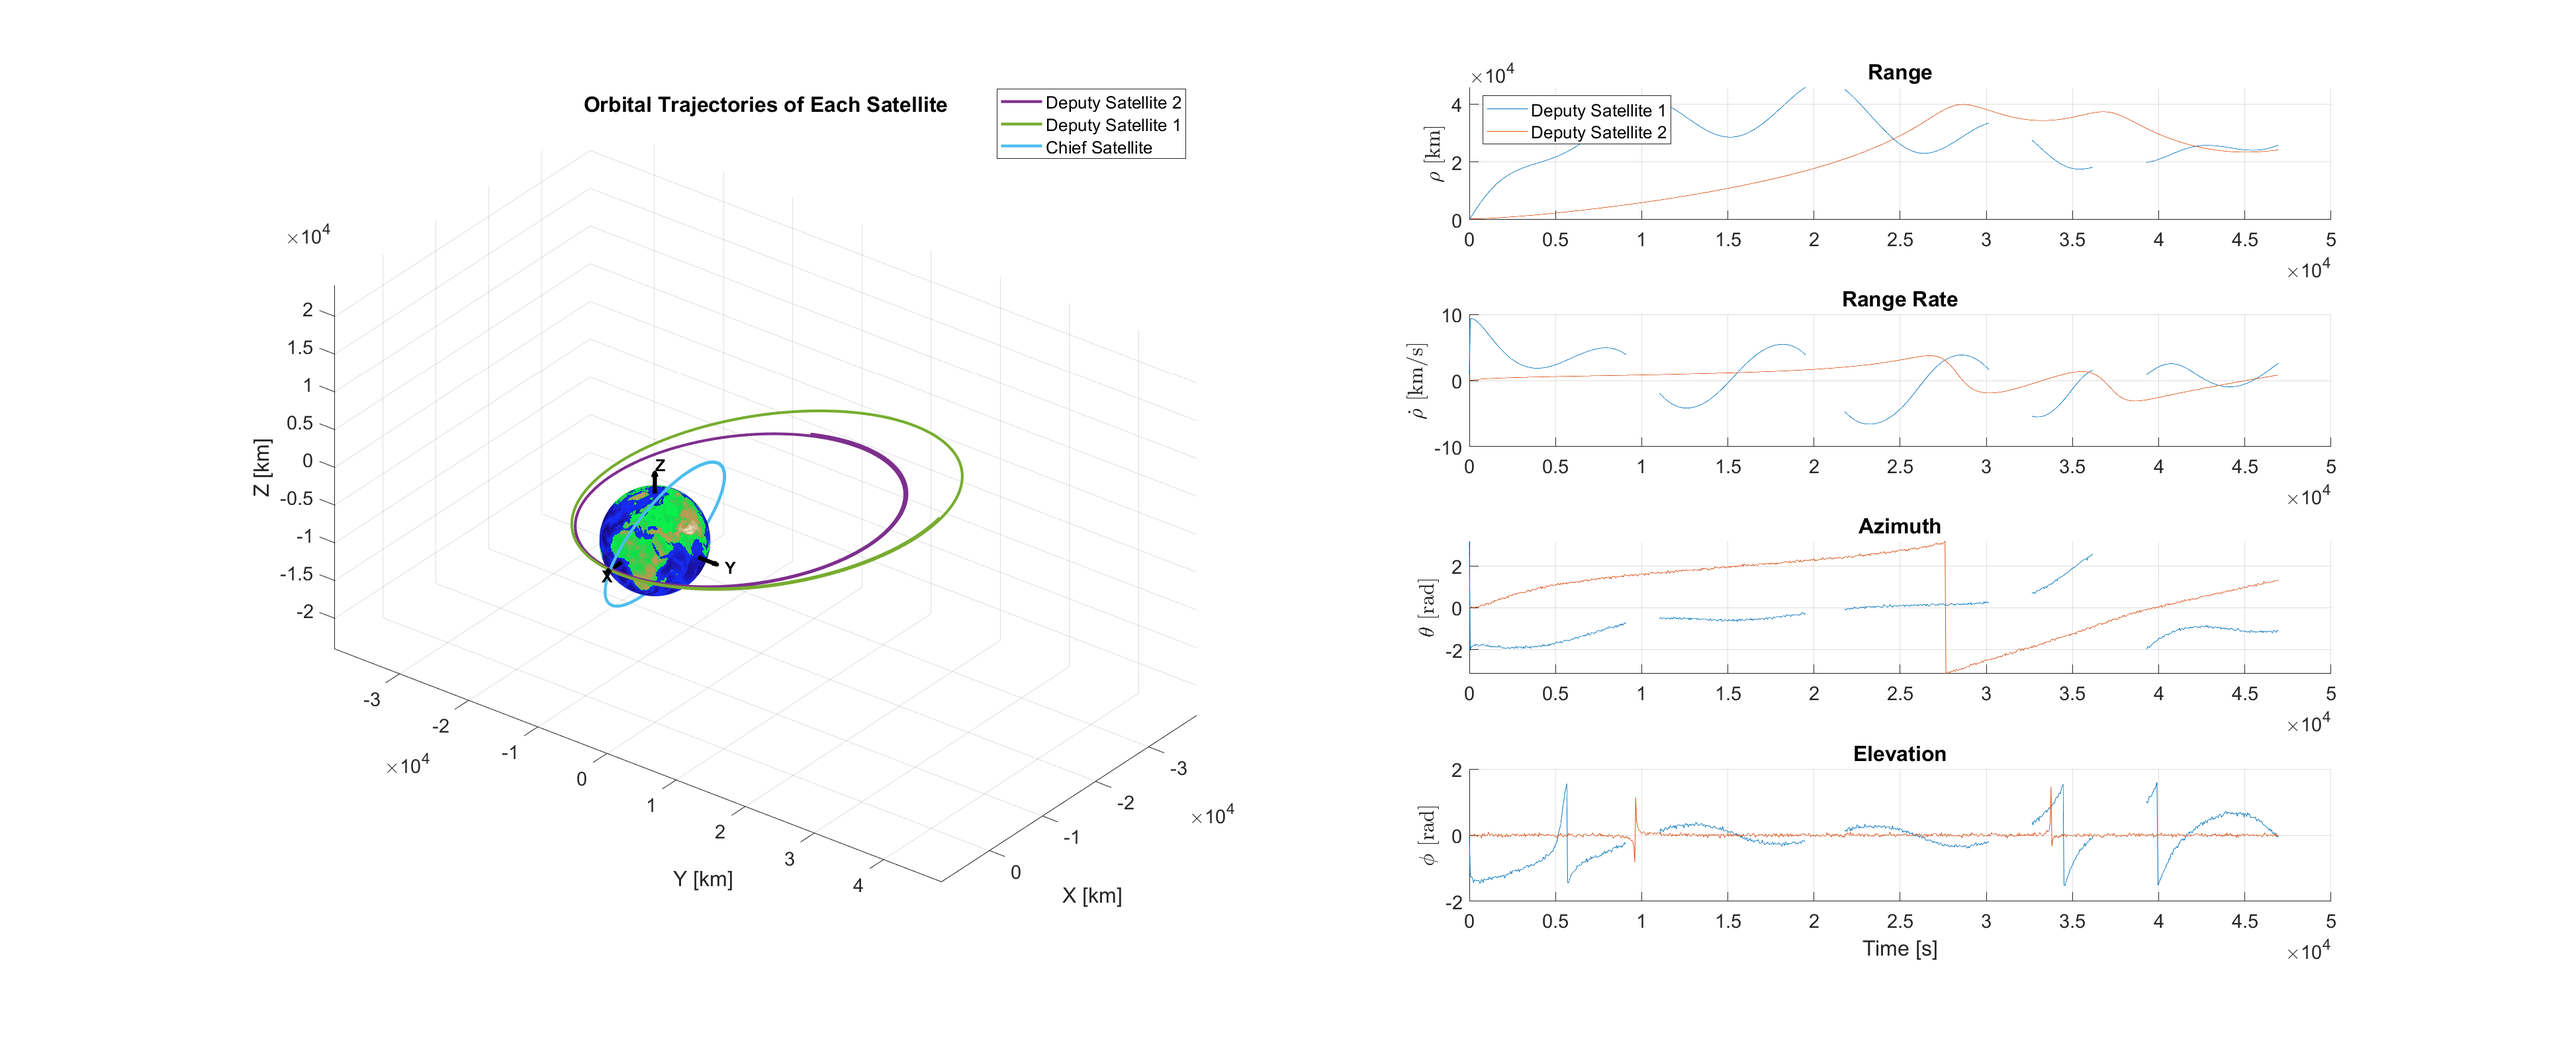
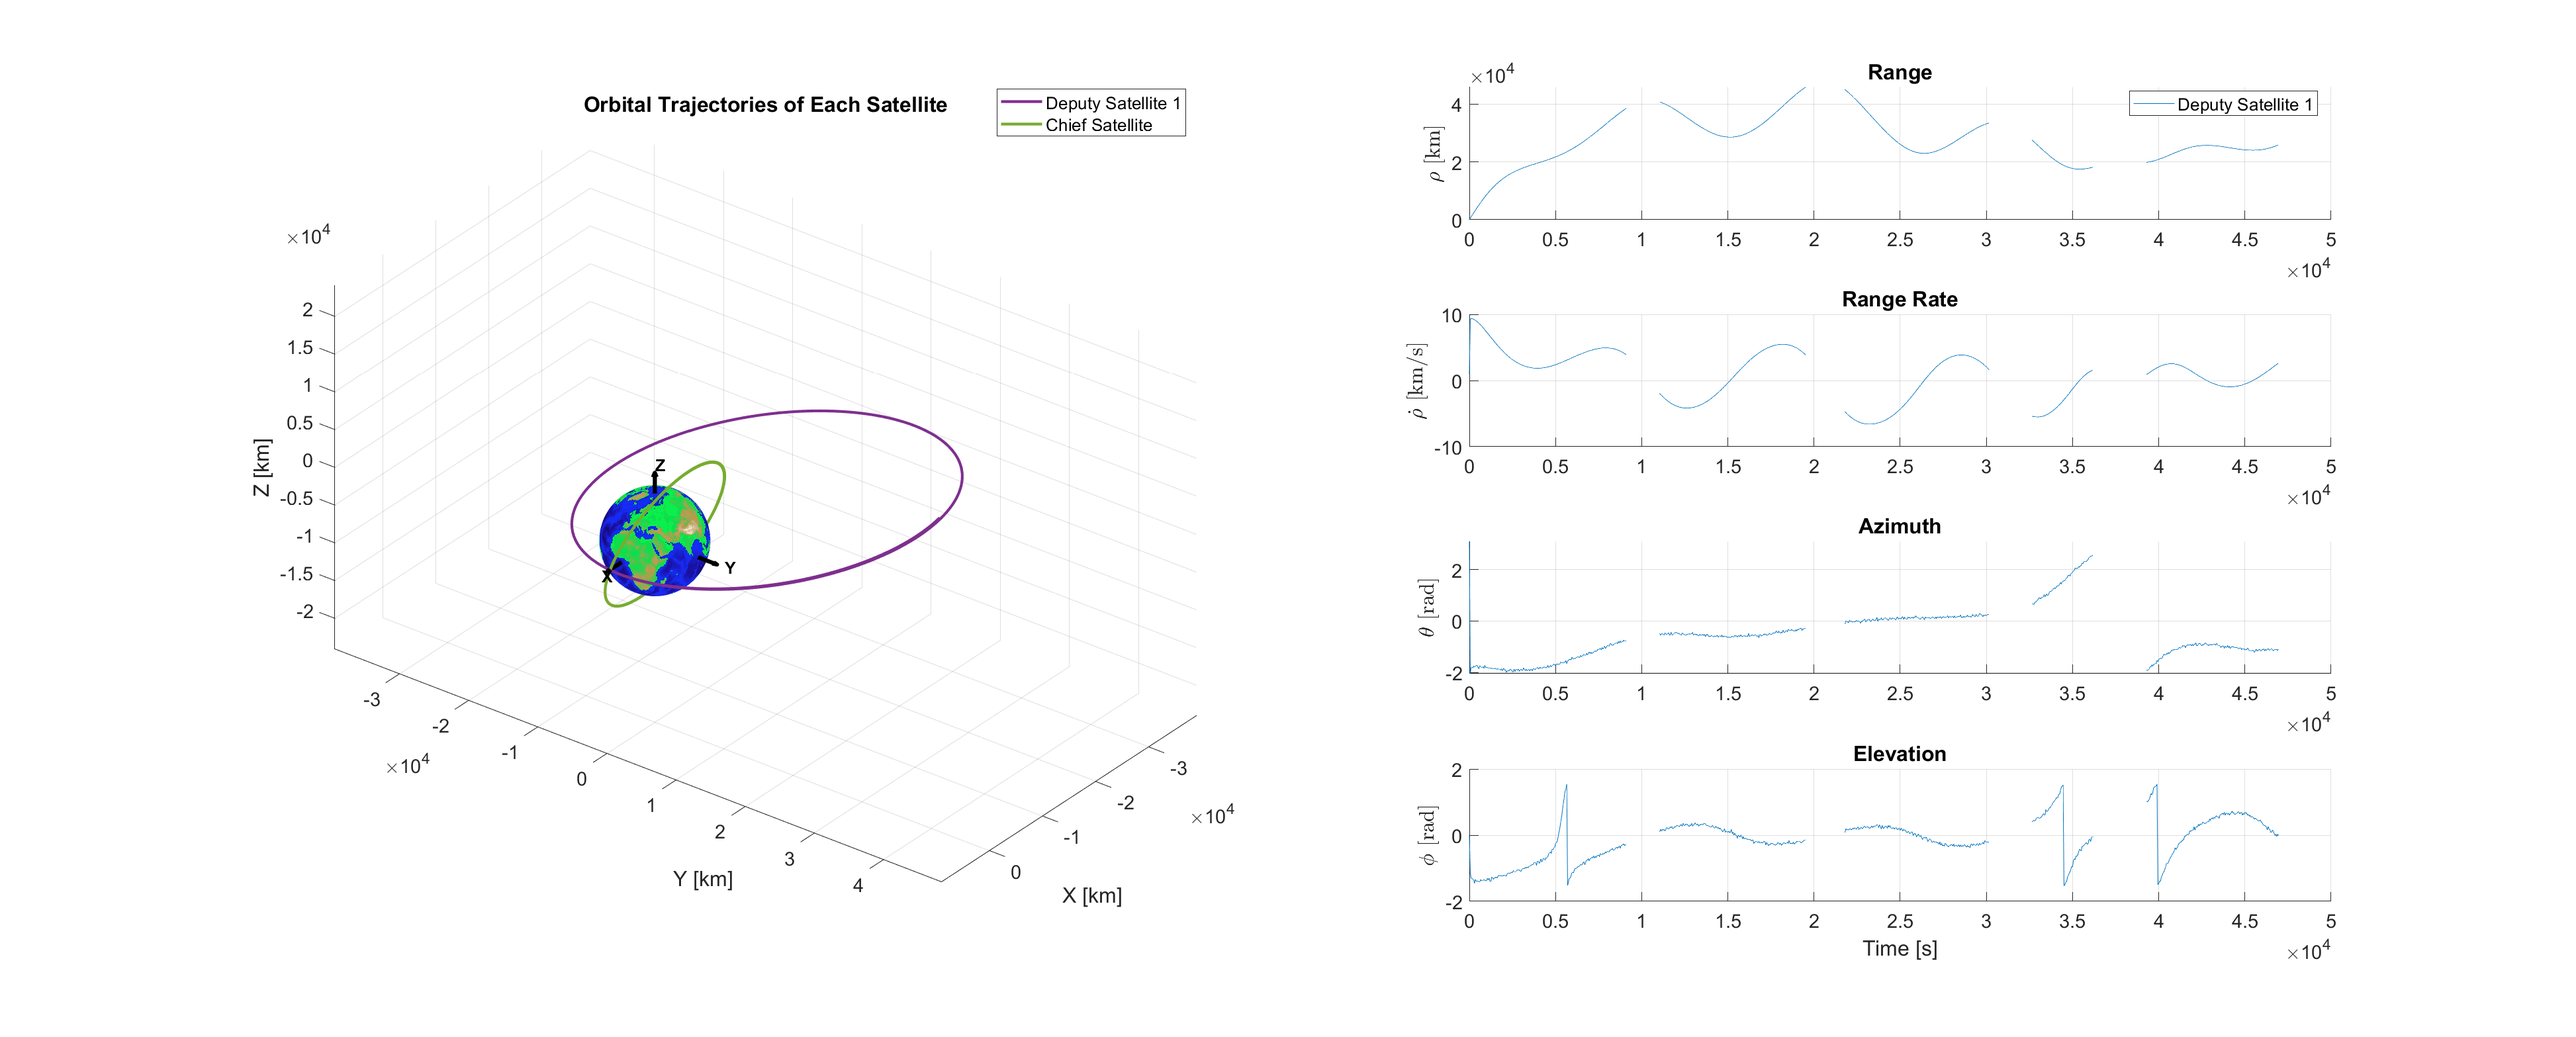
Working RBPF

diff --git a/RBPF_main.m b/RBPF_main.m
@@ -33,7 +33,7 @@ r0 = CONST.R_E + 2000; % [km]
 x0_C = [r0; 0; 0; 2.57; 0; 7.05];
 % x0_C = [r0; 0; 0; 7.5; 0; 0];
 x0_D = [r0+100; 1; 0; 8.75; 0; 0];
-x0_E = [r0 - 200; 1; 0; 8.75; 0; 0];
+% x0_E = [r0 - 200; 1; 0; 8.75; 0; 0];
 
 % Truth Model
 [t_vec, X, Y] = TruthModelSim(params, CONST, NOISE);
@@ -41,7 +41,6 @@ x0_E = [r0 - 200; 1; 0; 8.75; 0; 0];
 u = zeros(3,1);
 x_chief = X(:,:,1);
 x_deputy = X(:,:,2);
-x_eputy = X(:,:,3);
 
 params.p = size(Y, 1); % Number of measurements
 
@@ -66,11 +65,65 @@ params.PF.Q = 1e-6*[    0,      0,      0,      0,      0,      0;
                         0,      0,      0,      1,      0,      0;
                         0,      0,      0,      0,      0,      0;
                         0,      0,      0,      0,      0,      1];
+                    
+rough = 0.1e-6*[    0,      0,      0,      0,      0,      0;
+                  0,      1,      0,      0,      0,      0;
+                  0,      0,      0,      0,      0,      0;
+                  0,      0,      0,      1,      0,      0;
+                  0,      0,      0,      0,      0,      0;
+                  0,      0,      0,      0,      0,      1];
+params.PF.Q = params.PF.Q + rough;
 
 params.UKF.R = 10 * NOISE.R;
 params.PF.R = 10 * NOISE.R;
-params.Ns = 500; % Number of samples
-x_meas = x_chief;
-[RBPF] = RunRBPF(x_meas, Y, params, CONST);
+params.Ns = 100; % Number of samples
+% x_meas = x_chief;
+[RBPF] = RunRBPF(Y, params, CONST);
+x_hat = [RBPF(:).x_mmse];
+P = cat(3,RBPF(:).P);
+xt_hat = [RBPF(:).xt_mmse];
+
+figure
+tiledlayout('flow')
+nexttile
+hold on
+plot(t_vec, x_hat(1,:) - x_deputy(1,:))
+plot(t_vec, 2*sqrt(squeeze(P(1,1,:))),'--k');
+plot(t_vec, -2*sqrt(squeeze(P(1,1,:))),'--k');
+xlabel('time [s]')
+ylabel('X Error')
+
+nexttile
+hold on
+plot(t_vec, x_hat(3,:) - x_deputy(3,:))
+plot(t_vec, 2*sqrt(squeeze(P(3,3,:))),'--k');
+plot(t_vec, -2*sqrt(squeeze(P(3,3,:))),'--k');
+xlabel('time [s]')
+ylabel('Y Error')
+
+nexttile
+hold on
+plot(t_vec, x_hat(5,:) - x_deputy(5,:))
+plot(t_vec, 2*sqrt(squeeze(P(5,5,:))),'--k');
+plot(t_vec, -2*sqrt(squeeze(P(5,5,:))),'--k');
+xlabel('time [s]')
+ylabel('Z Error')
+
+figure
+tiledlayout('flow')
+nexttile
+plot(t_vec, xt_hat(1,:) - x_chief(1,:))
+xlabel('time [s]')
+ylabel('X Error')
+nexttile
+plot(t_vec, xt_hat(3,:) - x_chief(3,:))
+xlabel('time [s]')
+ylabel('Y Error')
+nexttile
+plot(t_vec, xt_hat(5,:) - x_chief(5,:))
+xlabel('time [s]')
+ylabel('Z Error')
+
+
 
 

diff --git a/SIS_RBPF.m b/SIS_RBPF.m
@@ -1,7 +1,8 @@
-function pp1 = SIS_RBPF(particles, y_t, y_e, x_meas, params, CONST)
+function pp1 = SIS_RBPF(particles, y_e, params, CONST)
 %SIS Sequential Importance Sampling for the discrete time system
 
 [~, Ns] = size(particles);
+dt = params.dt;
 
 for i = 1:Ns
     pp1(i).x_t = zeros(params.n, 1);
@@ -9,7 +10,7 @@ for i = 1:Ns
 end
 
 parfor i = 1:Ns
-    mu_q = transitionfcn(particles(i).x_t, params.dt, CONST);
+    mu_q = transitionfcn(particles(i).x_t, dt, CONST);
     pp1(i).x_t = mvnrnd(mu_q, params.PF.Q)';
 
 %         if ~isnan(y_t) % If a valid measurement is taken at time k+1
@@ -18,19 +19,25 @@ parfor i = 1:Ns
 %         else
 %             pp1.w(i) = particles.w(i);
 %         end
-    mu_p = measurementfcn(pp1(i).x_t, x_meas, zeros(params.p));
-    [pp1(i).xm, pp1(i).Pm] = predict(particles(i).UKF, params.dt, CONST);
-    [pp1(i).xp, pp1(i).Pp] = correct(particles(i).UKF, y_e, pp1(i).x_t, zeros(params.p, params.p));
-    [yres, Sk] = residual(particles(i).UKF, y_e, {pp1(i).x_t, zeros(params.p, params.p)});
-    ym_hat = y_e - yres;
-    pp1(i).w = mvnpdf(y_e, ym_hat, Sk);
+    [pp1(i).xm, pp1(i).Pm] = predict(particles(i).UKF, dt, CONST);
+    if all(~isnan(y_e))
+        [pp1(i).xp, pp1(i).Pp] = correct(particles(i).UKF, y_e, pp1(i).x_t, zeros(params.p, params.p));
+        [yres, Sk] = residual(particles(i).UKF, y_e, {pp1(i).x_t, zeros(params.p, params.p)});
+        ym_hat = y_e - yres;
+        pp1(i).w = particles(i).w*mvnpdf(y_e, ym_hat, Sk);
+    else
+        pp1(i).xp = pp1(i).xm;
+        pp1(i).Pp = pp1(i).Pm;
+        pp1(i).w = particles(i).w;
+    end
+    
     pp1(i).UKF = particles(i).UKF;
 end
 
 w_total = sum([pp1(:).w]);
 
 if w_total ~= 0
-    parfor i = 1:Ns
+    for i = 1:Ns
         pp1(i).w = pp1(i).w/w_total;
     end
 else

diff --git a/TruthModelSim.m b/TruthModelSim.m
@@ -25,7 +25,7 @@ x0_C = [r0; 0; 0; 2.57; 0; 7.05];
 % x0_C = [r0; 0; 0; 7.5; 0; 0];
 x0_D = [r0+100; 1; 0; 8.75; 0; 0];
 
-x0_E = [r0-200; 1; 0; 8.75; 0; 0];
+% x0_E = [r0-200; 1; 0; 8.75; 0; 0];
 
 % x0_C = [r0; 0; 0; 9]; % Chief satellite
 % x0_D = [r0 + 50; 2.5; 0; 8.5]; % Deputy satellite
@@ -36,29 +36,29 @@ x0_E = [r0-200; 1; 0; 8.75; 0; 0];
 % Noise
 w_tilde(:, :, 1) = mvnrnd(zeros(SYSTEM.n/2, 1), NOISE.Q, N)'; % Process noise
 w_tilde(:, :, 2) = mvnrnd(zeros(SYSTEM.n/2, 1), NOISE.Q, N)'; % Process noise
-w_tilde(:, :, 3) = mvnrnd(zeros(SYSTEM.n/2, 1), NOISE.Q, N)'; % Process noise
+% w_tilde(:, :, 3) = mvnrnd(zeros(SYSTEM.n/2, 1), NOISE.Q, N)'; % Process noise
 
 % Numeric Integration
 options = odeset('RelTol', 1e-12);
 
 [~, X_chief] = ode45(@(t, x) TMFunc(t, x, SYSTEM, CONST, w_tilde(:, :, 1), t_vec), t_vec, x0_C, options);
 [~, X_deputy] = ode45(@(t, x) TMFunc(t, x, SYSTEM, CONST, w_tilde(:, :, 2), t_vec), t_vec, x0_D, options);
-[~, X_eputy] = ode45(@(t, x) TMFunc(t, x, SYSTEM, CONST, w_tilde(:, :, 3), t_vec), t_vec, x0_E, options);
+% [~, X_eputy] = ode45(@(t, x) TMFunc(t, x, SYSTEM, CONST, w_tilde(:, :, 3), t_vec), t_vec, x0_E, options);
 
 X_chief = X_chief';
 X_deputy = X_deputy';
-X_eputy = X_eputy';
+% X_eputy = X_eputy';
 
 X(:, :, 1) = X_chief;
 X(:, :, 2) = X_deputy;
-X(:, :, 3) = X_eputy;
+% X(:, :, 3) = X_eputy;
 
 % Measurements
 n_s = 2; % Number of satellites
 
 for i = 2:n_s
     Y(:,:,1) = measurementfcn(X_deputy, X_chief, NOISE.R);  
-    Y(:,:,2) = measurementfcn(X_eputy, X_deputy, NOISE.R);
+%     Y(:,:,2) = measurementfcn(X_eputy, X_deputy, NOISE.R);
 end
 
 % Determine if the Line of Sight is obstructed

diff --git a/step_RBPF.m b/step_RBPF.m
@@ -1,14 +1,20 @@
-function RBPF = step_RBPF(RBPF, x_meas, y_t, y_e, params, CONST)
-particles = SIS_RBPF(RBPF(end).particles, y_t, y_e, x_meas, params, CONST);
+function RBPF = step_RBPF(RBPF, y_e, params, CONST)
+particles = SIS_RBPF(RBPF(end).particles, y_e, params, CONST);
 rbpfkp1.particles = particles;
 % MMSE
-rbpfkp1.x_mmse = RBPF_MMSE(particles);
-rbpfkp1.y_res_mmse = y_e - measurementfcn(rbpfkp1.x_mmse, x_meas, zeros(params.p));
+rbpfkp1.x_mmse = RBPF_MMSE(particles, 'xp');
+rbpfkp1.xt_mmse = RBPF_MMSE(particles, 'x_t');
+rbpfkp1.y_res_mmse = y_e - measurementfcn(rbpfkp1.x_mmse, rbpfkp1.xt_mmse, zeros(params.p));
 % MAP
-rbpfkp1.x_map = RBPF_MAP(particles);
-rbpfkp1.y_res_map = y_e - measurementfcn(rbpfkp1.x_map, x_meas, zeros(params.p));
+rbpfkp1.x_map = RBPF_MAP(particles, 'xp');
+rbpfkp1.xt_map = RBPF_MAP(particles, 'x_t');
+rbpfkp1.y_res_map = y_e - measurementfcn(rbpfkp1.x_map, rbpfkp1.xt_map, zeros(params.p));
 % Other Stuff
-rbpfkp1.P = RBPF_cov(particles);
+rbpfkp1.P = RBPF_cov(particles, rbpfkp1.x_mmse);
 rbpfkp1.Neff = 1/sum([particles(:).w].^2);
+if all(~isnan(y_e))
+    new_particles = RBPF_resample(particles);
+    rbpfkp1.particles = new_particles;
+end
 RBPF(end+1) = rbpfkp1;
 end

diff --git a/RBPF_resample.m b/RBPF_resample.m
@@ -1,0 +1,40 @@
+function new_particles = RBPF_resample(particles)
+% Ns = length(particles);
+% w_cdf = cumsum([particles(:).w]);
+% new_particles = particles([]);
+% for i = 1:Ns
+%     pSamp = rand;
+%     ii = find(pSamp <= w_cdf, 1);
+%     
+%     if ~isempty(ii)
+%         new_particles(i) =  particles(ii);
+%         new_particles(i).UKF = clone(particles(ii).UKF);
+%     else
+%         error("Error in resampling");
+%     end
+% end
+% 
+% for i = 1:Ns
+%     new_particles(i).w = 1/Ns;
+% end
+
+% Cull dead particles
+particles([particles(:).w] < 1e-5) = [];
+w_total = sum([particles(:).w]);
+for i = 1:length(particles)
+    particles(i).w = particles(i).w/w_total;
+end
+new_particles = particles;
+w_cdf = cumsum([particles(:).w]);
+while length(new_particles) < 100
+    pSamp = rand;
+    ii = find(pSamp <= w_cdf, 1);
+    new_particles(end + 1) = particles(ii);
+    new_particles(end).UKF = clone(particles(ii).UKF);
+end
+
+for i = 1:length(new_particles)
+    new_particles(i).w = 1/100;
+end
+
+end

diff --git a/RunRBPF.m b/RunRBPF.m
@@ -1,4 +1,4 @@
-function [RBPF] = RunRBPF(x_meas, Y, params, CONST)
+function [RBPF] = RunRBPF(Y, params, CONST)
 %RunFilters Executes the UKF and PF for each time in t_vec with
 %corresponding measurement in Y
 
@@ -12,9 +12,8 @@ for k = 1:(length(Y)-1)
     fprintf('RBPF Progress:\t%3.0f %%\n', k/(length(Y)-1)*100);
     
     %Prediction step
-    y_t = Y(:, k+1, 1);
-    y_e = Y(:, k+1, 2);
-    RBPF = step_RBPF(RBPF, x_meas(:,k+1), y_t, y_e, params, CONST);
+    y_e = Y(:, k+1);
+    RBPF = step_RBPF(RBPF, y_e, params, CONST);
     
     
     %Step time forward

diff --git a/init_RBPF.m b/init_RBPF.m
@@ -10,9 +10,9 @@ pf0.P(2,2) = 0.0005;
 pf0.P(4,4) = 0.0005;
 pf0.P(6,6) = 0.0005;
 pf0.Neff = Ns;
-init_state_xt = [r0+100; 1; 0; 8.75; 0; 0];
+init_state_xt = [r0; 0; 0; 2.57; 0; 7.05];
 
-init_state_xe = [r0-200; 1; 0; 8.75; 0; 0];
+init_state_xe = [r0+100; 1; 0; 8.75; 0; 0];
 UKF.xm = zeros(params.n, params.N);
 UKF.xp = UKF.xm;
 UKF.xm(:,1) = init_state_xt;
@@ -37,6 +37,8 @@ for i = 1:Ns
     particles(i).Pm = Pm;
     particles(i).UKF = clone(filterUKF);
 end
+pf0.xt_mmse = init_state_xt;
+pf0.xt_map = init_state_xt;
 pf0.particles = particles;
 RBPF = pf0;
 end

diff --git a/RBPF_cov.m b/RBPF_cov.m
@@ -1,7 +1,8 @@
-function out = RBPF_cov(particles)
-x = zeros(length(particles(1).xp), length(particles));
+function out = RBPF_cov(particles, mean)
+n = length(particles(1).xp);
+P = zeros(n,n);
 parfor i = 1:length(particles)
-    x(:,i) = particles(i).xp;
+    P = P + particles(i).w*(particles(i).xp - mean)*(particles(i).xp - mean)';
 end
-out = cov(x');
+out = P;
 end

diff --git a/RBPF_MAP.m b/RBPF_MAP.m
@@ -1,9 +1,9 @@
-function x_map = RBPF_MAP(particles)
+function x_map = RBPF_MAP(particles, field_name)
 max_w = 0;
 for i = 1:length(particles)
     if particles(i).w > max_w
         max_w = particles(i).w;
-        x_map = particles(i).xp;
+        x_map = particles(i).(field_name);
     end
 end
 end

diff --git a/RBPF_MMSE.m b/RBPF_MMSE.m
@@ -1,7 +1,7 @@
-function x_mmse = RBPF_MMSE(particles)
+function x_mmse = RBPF_MMSE(particles, field_name)
 Ns = length(particles);
 x_mmse = 0;
 for i = 1:Ns
-    x_mmse = x_mmse + particles(i).w*particles(i).xp;
+    x_mmse = x_mmse + particles(i).w*particles(i).(field_name);
 end
 end
